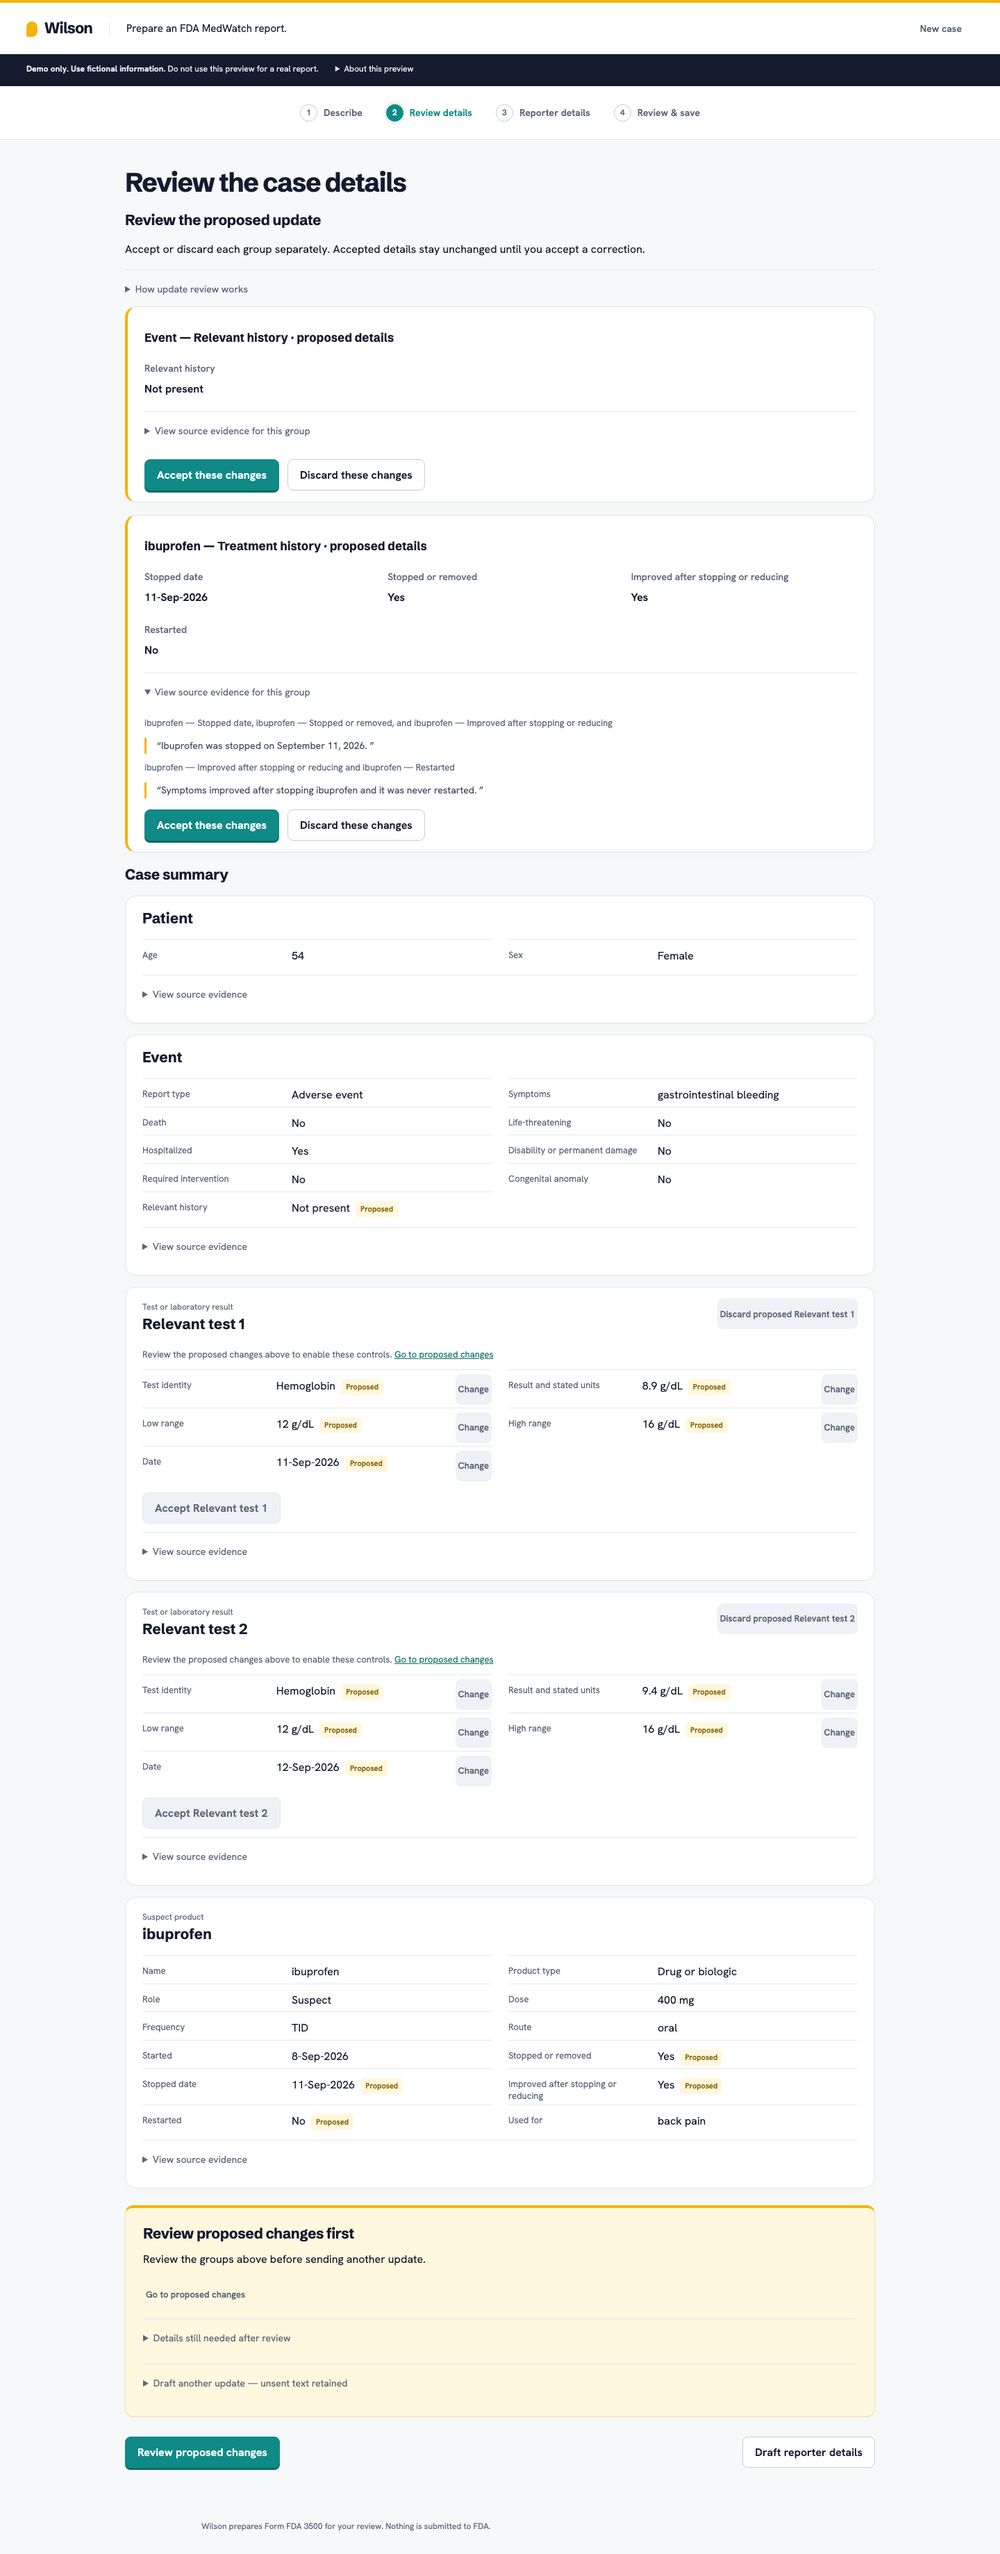
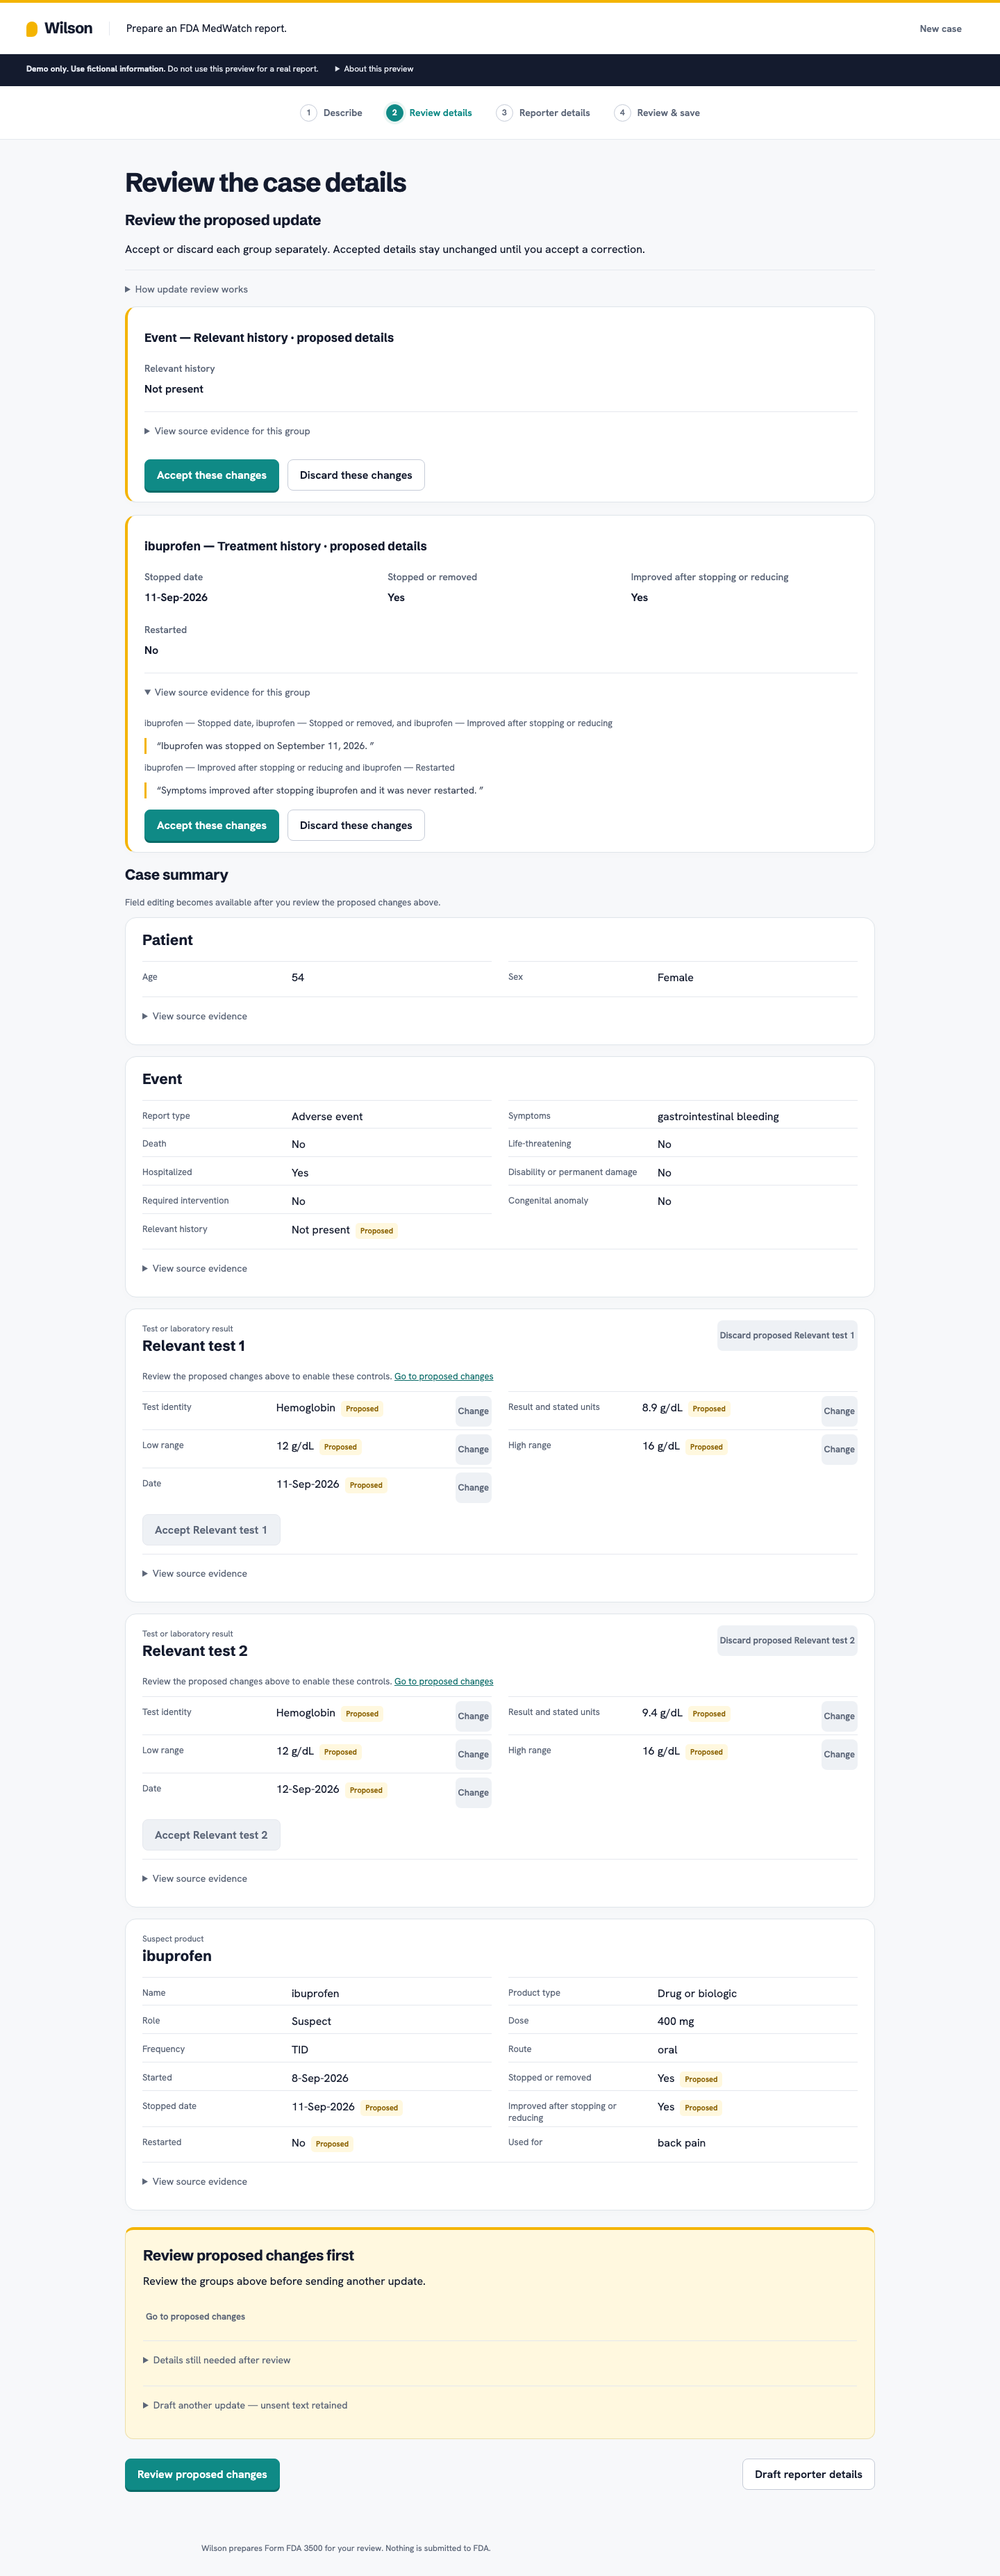
Address operator clarity review follow-ups

diff --git a/tests/e2e/zzzzzz-flow-alignment.spec.ts b/tests/e2e/zzzzzz-flow-alignment.spec.ts
@@ -5,8 +5,6 @@ import { expect, test } from "@playwright/test";
 import { flowAlignmentState } from "../fixtures/flow-alignment";
 import { goTo, savePdf, storedState } from "./draft4-helpers";
 import baselinePdf from "../../evidence/issue-109/pdf-readback.json" with { type: "json" };
-import { applyCaseCommand } from "../../src/domain/case/commands";
-import { medicationSource } from "../fixtures/medication-case";
 import { createSemanticCase } from "../../src/domain/case/create";
 import { InMemoryCaseRepository } from "../../src/server/case/repository";
 import { browserStateVersion } from "../../src/server/case/browser-state";
@@ -35,6 +33,7 @@ test("Draft 4 gaps: pending answers, separate tests, direct clinical recovery an
   await expect(page.getByLabel("Clinical update", { exact: true })).toBeHidden();
   await expect(details.getByRole("button", { name: "Continue to reporter details", exact: true })).toHaveCount(0);
   await expect(details.getByRole("button", { name: "Draft reporter details", exact: true })).toBeVisible();
+  await expect(details.getByText("Field editing becomes available after you review the proposed changes above.", { exact: true })).toBeVisible();
   for (const id of [1, 2]) {
     const card = page.locator(`#case-card-test-${id}`);
     await expect(card.getByRole("button", { name: `Accept Relevant test ${id}`, exact: true })).toBeDisabled();
@@ -83,7 +82,8 @@ test("Draft 4 gaps: pending answers, separate tests, direct clinical recovery an
   expect((await storedState(page)).case.event.facts.relevantHistory.resolvedValue).toBeUndefined();
   await expect(page.getByRole("button", { name: "Accept Relevant test 1", exact: true })).toBeDisabled();
   await page.getByRole("button", { name: "Accept these changes", exact: true }).click();
-  await expect(page.getByRole("status").filter({ hasText: "2 tests are now ready for separate review" })).toBeVisible();
+  await expect(page.getByRole("status").filter({ hasText: "2 tests are now ready for separate review" })).toHaveCount(1);
+  await expect(details.getByText("Field editing becomes available after you review the proposed changes above.", { exact: true })).toHaveCount(0);
   const test1 = page.locator("#case-card-test-1"), test2 = page.locator("#case-card-test-2");
   await expect(test1.getByRole("heading")).toBeFocused();
   await expect(test1.getByText("Not yet included in the report.", { exact: false })).toBeInViewport();
@@ -137,21 +137,33 @@ test("Draft 4 gaps: pending answers, separate tests, direct clinical recovery an
     expect(await page.evaluate(() => document.documentElement.scrollWidth <= innerWidth)).toBe(true);
     await page.screenshot({ path: info.outputPath(`accepted-review-${width}.png`), fullPage: true });
   }
+  // Reopen clinical work through a real correction after reporter acceptance.
+  const restarted = page.locator("#case-card-product-1 dl > div").filter({ has: page.getByText("Restarted", { exact: true }) });
+  await restarted.getByRole("button", { name: "Change", exact: true }).click();
+  await restarted.getByLabel("New Restarted", { exact: true }).selectOption("true");
+  await restarted.getByRole("button", { name: "Apply correction", exact: true }).click();
+  await expect(invitation.getByRole("heading", { name: "Questions before preparing the PDF", exact: true })).toBeVisible();
+  const reopened = await storedState(page);
+  expect(reopened.case.askedNeeds.some(({ key, status }) => key === "reporter-details" && status !== "open")).toBe(true);
+  await page.getByRole("button", { name: "Edit reporter details", exact: true }).click();
+  await expect(page.getByRole("region", { name: "Before saving reporter details" })).toHaveCount(0);
+  await page.getByLabel("Reporter email", { exact: true }).fill("saved-again@example.test");
+  await page.getByRole("button", { name: "Save reporter details", exact: true }).click();
+  await expect.poll(async () => (await storedState(page)).case.reporter.facts.email.resolvedValue?.value).toEqual({ kind: "known", value: "saved-again@example.test" });
+  const savedAgain = await storedState(page);
+  expect(savedAgain.case.products).toEqual(reopened.case.products);
+  expect(savedAgain.case.reporter.facts.doNotDiscloseIdentity).toEqual(reopened.case.reporter.facts.doNotDiscloseIdentity);
+  await goTo(page, "Review & save");
+  await expect(page.getByRole("button", { name: "Generate updated PDF", exact: true })).toBeDisabled();
+  await expect(page.getByRole("button", { name: "Answer clinical questions", exact: true })).toBeVisible();
 });
 
-test("discard preserves accepted facts; subsequent questions and previously saved reporter navigation stay truthful", async ({ page }) => {
+test("discard preserves accepted facts; subsequent questions and reporter drafts stay truthful", async ({ page }) => {
   await page.route("**/api/case", async route => {
     if (["submit-opening", "submit-update"].includes(route.request().postDataJSON()?.action?.action)) throw new Error("Unexpected interpretation request");
     await route.continue();
   });
   const pending = await flowAlignmentState();
-  pending.case = applyCaseCommand(pending.case, {
-    type: "record-clinician-facts", commandId: "saved-reporter-fixture", expectedRevision: pending.case.revision,
-    source: medicationSource("Fictional reporter Casey Reed, physician, casey@example.test.", "saved-reporter-fixture"),
-    facts: Object.entries({ firstName: "Casey", lastName: "Reed", occupation: "Physician", email: "casey@example.test" }).map(([field, value]) => ({
-      id: `saved-${field}`, intent: "fact" as const, target: { entity: "reporter" as const, entityId: "reporter", field: field as "firstName" | "lastName" | "occupation" | "email" }, value: { kind: "known" as const, value },
-    })),
-  }).case;
   await page.goto("/");
   await page.getByLabel("Case description", { exact: true }).waitFor();
   await page.evaluate(state => sessionStorage.setItem("wilson-journey-state-v2", JSON.stringify(state)), pending);
@@ -174,9 +186,8 @@ test("discard preserves accepted facts; subsequent questions and previously save
   expect(remaining.case.relevantTests[1]).toEqual(pending.case.relevantTests[1]);
   await remainingTest.getByRole("button", { name: "Accept Relevant test 1", exact: true }).click();
   await expect(page.getByRole("heading", { name: "Questions before preparing the PDF", exact: true })).toBeFocused();
-  await page.getByRole("button", { name: "Edit reporter details", exact: true }).click();
-  await expect(page.getByRole("region", { name: "Before saving reporter details" })).toHaveCount(0);
-  await expect(page.getByRole("button", { name: "Save reporter details", exact: true })).toBeEnabled();
+  await page.getByRole("button", { name: "Draft reporter details", exact: true }).click();
+  await expect(page.getByRole("region", { name: "Before saving reporter details" })).toBeVisible();
   await page.getByLabel("Reporter email", { exact: true }).fill("unsaved@example.test");
   await goTo(page, "Review & save");
   await expect(page.getByRole("button", { name: "Generate PDF", exact: true })).toBeDisabled();
@@ -190,7 +201,7 @@ test("discard preserves accepted facts; subsequent questions and previously save
   await expect(page.getByRole("button", { name: "Continue to reporter details", exact: true })).toBeVisible();
   await goTo(page, "Reporter details");
   await expect(page.getByLabel("Reporter email", { exact: true })).toHaveValue("unsaved@example.test");
-  expect((await storedState(page)).case.reporter.facts.email.resolvedValue?.value).toEqual({ kind: "known", value: "casey@example.test" });
+  expect((await storedState(page)).case.reporter.facts.email.resolvedValue).toBeUndefined();
 });
 
 test("opening correction remains a draft until acceptance and discarding proposed patient details preserves other groups", async ({ page }) => {

diff --git a/tests/domain/clinical-guidance.test.ts b/tests/domain/clinical-guidance.test.ts
@@ -52,11 +52,17 @@ describe("clinical guidance uses existing review and completion state", () => {
     for (const test of next.understanding.relevantTests) next = await act({ action: "review-opening-group", groupId: test.proposalGroupId!, corrections: [] });
     expect(nextClinicalAction(next)?.kind).toBe("questions");
     expect(canSaveReporter(next)).toBe(false);
-    const previouslySaved = structuredClone(next);
-    previouslySaved.understanding.reporter.email.resolved = { kind: "known", value: "fictional@example.test" };
-    expect(canSaveReporter(previouslySaved)).toBe(true);
-    expect(nextClinicalAction(previouslySaved)?.kind).toBe("questions");
-    expect(previouslySaved.downloadReady).toBe(false);
+    await act({ action: "answer-serious-outcomes", selected: [], disposition: "known" });
+    const reporter = { kind: "provided" as const, firstName: "Casey", lastName: "Reed", email: "fictional@example.test", occupation: "Physician", healthProfessional: true, reportedTo: [], doNotDiscloseIdentity: true };
+    next = await act({ action: "answer-reporter", reporter });
+    expect(next.downloadReady).toBe(true);
+    next = await act({ action: "set-fact", target: `product:${next.understanding.products[0].id}:restarted`, value: { kind: "known", value: true } });
+    expect(canSaveReporter(next)).toBe(true);
+    expect(nextClinicalAction(next)?.kind).toBe("questions");
+    next = await act({ action: "answer-reporter", reporter: { ...reporter, email: "changed@example.test" } });
+    expect(next.understanding.reporter.email.resolved).toEqual({ kind: "known", value: "changed@example.test" });
+    expect(next.downloadReady).toBe(false);
+    expect(next.clarification?.kind).toBe("medication-history");
   });
 
   it("uses stable entity identity to decide whether a group can omit repeated entity prefixes", () => {

diff --git a/app/journey.tsx b/app/journey.tsx
@@ -292,6 +292,7 @@ export default function Journey() {
           {snapshot.stage === "review-update" && <UpdateReview snapshot={snapshot} busy={busy} act={act} />}
           {snapshot.review.attention.filter(({ kind }) => kind === "conflict").map((item) => <ConflictCard key={item.target} snapshot={snapshot} item={item} busy={busy || snapshot.stage !== "output"} act={act} />)}
           <CaseSummaryHeading attention={snapshot.review.attention} />
+          {reviewingUpdate && <p className={styles.hint}>Field editing becomes available after you review the proposed changes above.</p>}
           <p role="status" aria-atomic="true" className={styles.visuallyHidden}>{reviewNotice}</p>
           <CaseCards key={browserState?.case.id} snapshot={snapshot} busy={busy} act={act} />
           <section className={`${styles.invitation} ${!clinicalAction ? styles.optionalPanel : ""}`} aria-label="Useful clinical details">

diff --git a/tests/e2e/zzz-usability.spec.ts b/tests/e2e/zzz-usability.spec.ts
@@ -25,8 +25,8 @@ test("focused usability: truthful activity, draft demo reporter, review dependen
   const releaseOpening = await holdNext(page, "/api/case", true);
   await page.getByRole("button", { name: "Review Wilson’s understanding", exact: true }).click();
   const openingStatus = page.getByRole("status").filter({ hasText: "Preparing case details for your review…" });
-  await expect(openingStatus).toBeVisible();
   await expect(openingStatus).toHaveCount(1);
+  await expect(openingStatus).toHaveAttribute("aria-atomic", "true");
   const openingButton = page.getByRole("button", { name: "Preparing details…", exact: true });
   await expect(openingButton).toBeDisabled();
   await expect(openingButton).toBeInViewport();

diff --git a/evidence/issue-119/README.md b/evidence/issue-119/README.md
@@ -82,3 +82,25 @@ These checks establish the bounded presentation/navigation behavior and retained
 PDF content, not general interpretation reliability, full form coverage or a
 production/real-data readiness decision. Conversational correction beside each
 card remains outside this slice.
+
+## Independent-review remediation
+
+The [standard Opus-high review](https://github.com/warblersafety/wilson-next/pull/120#issuecomment-5807226569)
+found no blockers and three useful follow-ups. One compact line under Case summary
+now explains that direct field editing returns after update review. The saved-reporter
+checks now use actual reporter acceptance followed by a clinical correction that
+opens a medication question, then successfully save a reporter email edit while
+PDF regeneration stays blocked; the artificial reporter fixture is removed. Live
+regions are asserted by content/count, with the visible button and test-card hint
+checked separately. No service or permission changes.
+
+The prior full local run passed all 13 browser journeys and all 234 deterministic
+tests; required CI passed on `c199908`. After this bounded remediation, the five
+clinical-guidance tests, typecheck, build and all four affected browser journeys
+pass. The first targeted invocation was stopped because it used the old build and
+full fixture queue; the rebuilt/matched-fixture run passed 3/4 and exposed a test
+selector expecting “Generate PDF” instead of the existing “Generate updated PDF”.
+The corrected saved-reporter journey passes, including the actual save and blocked
+regeneration. The updated pending screenshot reflects the compact explanation.
+The same review session will inspect this exact delta; its actual result belongs
+in PR #120.
